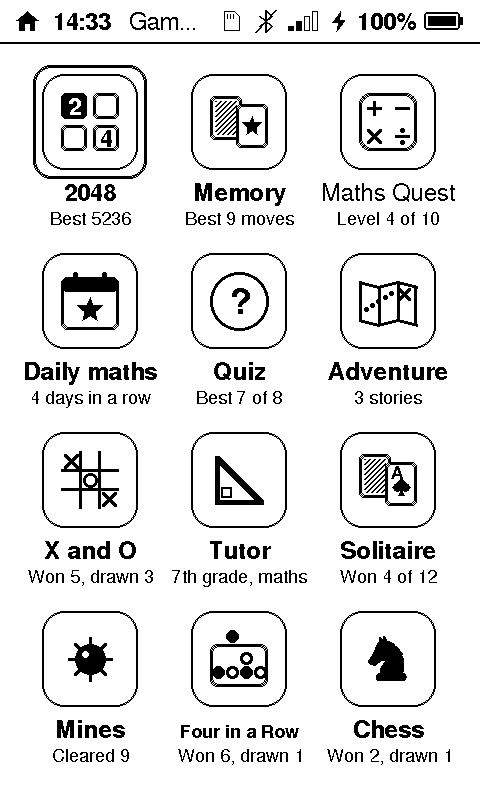
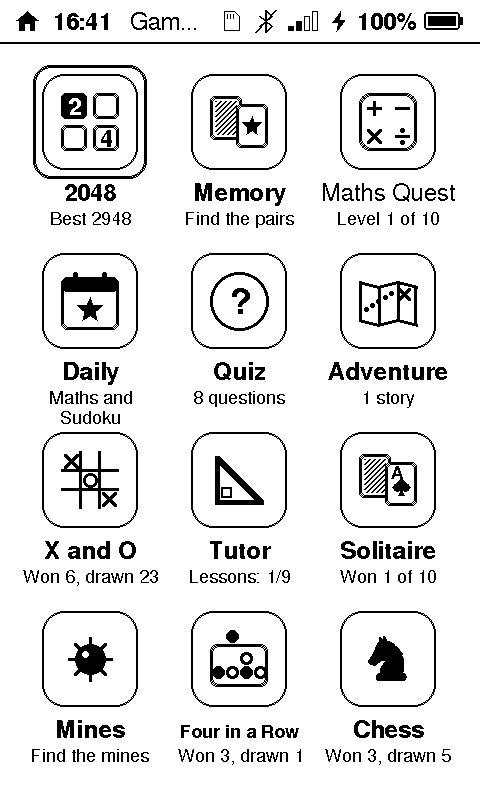
Site 1.9 (hold until 1.9 is tagged): Sudoku under Daily, with the board's captures
The help page's Daily section: Sudoku from the firmware (levels by the
numbers given, Pencil, Erase, Undo, clashes struck through, the clock,
best times, the streak, today's puzzle kept through restarts and sleep,
the same on every board running the same version), with its 11-step
demo; Daily maths placeholder is the Daily screen. The 1.9 post with the
Daily screen, a game with pencil marks and a clash, the solved screen and
sideways. The launcher capture now shows the Daily tile (the 1.8 post
keeps its own as games-twelve-v18.png); home page lines say Daily (Daily
maths and Sudoku).

diff --git a/site/src/games/index.html b/site/src/games/index.html
@@ -4,7 +4,7 @@
 <meta charset="utf-8">
 <meta name="viewport" content="width=device-width, initial-scale=1">
 <title>How to play the games on {{NAME}}</title>
-<meta name="description" content="How to play the twelve games of {{NAME}} on the reTerminal Sticky e-paper board: 2048, Memory, Maths Quest, Daily (Sudoku and Daily maths), Quiz, Adventure, X and O, Tutor, Solitaire, Mines, Four in a Row and Chess, step by step on the board's own screens.">
+<meta name="description" content="How to play the twelve games of {{NAME}} on the reTerminal Sticky e-paper board: 2048, Memory, Maths Quest, Daily (Daily maths and Sudoku), Quiz, Adventure, X and O, Tutor, Solitaire, Mines, Four in a Row and Chess, step by step on the board's own screens.">
 <meta name="color-scheme" content="light dark">
 <meta name="theme-color" content="#ecede8" media="(prefers-color-scheme: light)">
 <meta name="theme-color" content="#1d1e20" media="(prefers-color-scheme: dark)">
@@ -231,13 +231,13 @@
   </div>
 </section>
 
-<!-- 1.9: the Daily tile opens a Daily screen with Daily maths and Sudoku (issue #18). Before 1.9
-     this section was Daily maths alone (id="daily-maths"); that anchor still works below. Sudoku's
-     rules are kept to what is certain until the firmware's guide.md row lands. -->
+<!-- 1.9 (hold until 1.9 is tagged): the Daily tile opens a Daily screen with Daily maths and
+     Sudoku (issue #18). Before 1.9 this section was Daily maths alone (id="daily-maths"); that
+     anchor still works below. Sudoku's facts: docs/guide.md and games_sudoku.ino on games/sudoku. -->
 <section class="game" id="daily" aria-labelledby="g-daily">
   <div class="wrap">
     <h2 id="g-daily"><span class="icon"><svg viewBox="0 0 24 24" aria-hidden="true"><rect x="3.5" y="5" width="17" height="15.5" rx="2"/><path d="M3.5 10h17M8 3v4M16 3v4M12 12.5v5.5M9.25 15.25h5.5"/></svg></span>Daily <span class="tag">Sudoku new in 1.9</span></h2>
-    <p class="goal">The <strong>Daily</strong> tile opens today’s puzzles: a new daily puzzle, <a href="#sudoku">Sudoku</a>, next to <a href="#daily-maths">Daily maths</a>. Each is made on the board from the date, so it needs no internet, and every board has the same one that day.</p>
+    <p class="goal">The <strong>Daily</strong> tile opens the puzzles of the day: a new daily puzzle, <a href="#sudoku">Sudoku</a>, next to <a href="#daily-maths">Daily maths</a>. Both come from the date, so every board running the same version of {{NAME}} has the same ones that day, and each has its own streak of days in a row.</p>
   </div>
   <div class="wrap game-grid game-part" id="sudoku">
     <div class="game-copy">
@@ -245,18 +245,22 @@
       <p class="goal"><strong>Goal:</strong> fill the grid so that every row, every column and every 3 × 3 box holds the numbers 1 to 9 once each.</p>
       <h4>How to play</h4>
       <ol>
-        <li>Tap <em>Daily</em>, then <em>Sudoku</em>, and pick a level: <em>Easy</em>, <em>Medium</em> or <em>Hard</em>.</li>
-        <li>Tap a cell, then a number to put it there.</li>
-        <li>Pencil marks note the numbers a cell could still be.</li>
-        <li>A number that clashes with another in its row, column or box is marked.</li>
+        <li>Tap <em>Daily</em>, then <em>Sudoku</em>: <em>Today’s sudoku</em>. Pick a level: <em>Easy</em> (36 to 40 numbers given), <em>Medium</em> (30 to 34) or <em>Hard</em> (26 to 29).</li>
+        <li>Tap a square: it is ringed, and its row, column and box are lightly hatched.</li>
+        <li>Tap a number to put it in; the same number again takes it out. Given numbers are bold and can’t change.</li>
+        <li><em>Pencil</em> puts numbers in small, as notes. <em>Erase</em> clears a square, and <em>Undo</em> takes back a step.</li>
+        <li>A number of yours that clashes with another in its row, column or box is struck through, never refused.</li>
+        <li>Fill the last square: <em>Solved!</em>, with your time, a new best, your streak and <em>Come back tomorrow for a new one.</em></li>
       </ol>
       <h4>Tips</h4>
       <ul>
-        <li>There is a new puzzle every day, the same on every board: one to compare over breakfast.</li>
-        <li>Start with the rows, columns and boxes that are nearly full.</li>
+        <li>Every puzzle has exactly one solution. On Easy, a square with only one number left, or a number with only one place left in its row, column or box, always gets you to the end.</li>
+        <li>A number you place takes its pencil notes off its row, column and box. Once a number is placed nine times it fades on the pad.</li>
+        <li>The clock counts while the puzzle is on screen; a long gap between taps counts as ten minutes at most. <em>Levels</em> goes back to the levels card, which shows each level’s time and best, with a tick on those solved today.</li>
+        <li>The puzzle is made on the board from the date: no internet needed once the board knows the date, and every board running the same version of {{NAME}} has the same one that day. Without the date, the screen asks you to connect to WiFi.</li>
       </ul>
       <h4>What’s kept</h4>
-      <p class="kept">Your streak of days and your best times.</p>
+      <p class="kept">Your best time at each level, and your streak: days in a row with a sudoku solved, at any level. Today’s grids, notes and times are kept even when the board restarts or sleeps; a new day starts afresh.</p>
       <!-- short:sudoku -->
     </div>
 <!-- demo:sudoku -->
@@ -265,9 +269,9 @@
     <li class="demo-step">
       <figure>
         <div class="device portrait"><div class="screen">
-          <div class="slot"><strong>Sudoku</strong>The board’s screens are coming</div>
+          <img src="../shots/sudoku-play.png" width="480" height="800" loading="lazy" decoding="async" alt="Today's Easy sudoku at 1:02: the square in row 2, column 1 ringed and its 8 struck through, since the row already has an 8; pencil marks 2 and 3 in a square of the top row; the number pad, Erase, Pencil and Undo">
         </div></div>
-        <figcaption>Sudoku, step by step: coming with its captures</figcaption>
+        <figcaption>A clash struck through, and pencil marks</figcaption>
       </figure>
     </li>
   </ol>
@@ -280,9 +284,9 @@
       <p class="goal"><strong>Goal:</strong> answer today’s five questions, and keep a streak of days in a row.</p>
       <h4>How to play</h4>
       <ol>
-        <li>Open Daily maths: <em>Today’s five questions</em>, the same all day, since they come from the date.</li>
+        <li>Tap <em>Daily</em>, then <em>Daily maths</em>: <em>Today’s five questions</em>, the same all day, since they come from the date.</li>
         <li>Tap one of the four answers. They are mixed, at the Champion level, with three hearts as in Maths Quest.</li>
-        <li>Answer all five: <em>Daily done!</em>, and your streak grows by a day.</li>
+        <li>Answer all five: <em>Daily done!</em>, and your streak grows by a day. <em>Back</em> returns to the Daily screen.</li>
       </ol>
       <h4>Tips</h4>
       <ul>
@@ -301,9 +305,9 @@
     <li class="demo-step">
       <figure>
         <div class="device portrait"><div class="screen">
-          <img src="../shots/games-twelve.png" width="480" height="800" loading="lazy" decoding="async" alt="The Games folder: icons for 2048, Memory, Maths Quest, Daily (Sudoku and Daily maths), Quiz, Adventure, X and O, Tutor, Solitaire, Mines, Four in a Row and Chess, each with a line of progress">
+          <img src="../shots/sudoku-daily.png" width="480" height="800" loading="lazy" decoding="async" alt="The Daily screen, Sunday, 22 November 2026: a row for Daily maths, 5 a day, and a row for Sudoku, Easy, Medium or Hard; at the foot: New puzzles every day, the same on every board">
         </div></div>
-        <figcaption>The Games folder, before 1.9: Daily maths, with your streak under it</figcaption>
+        <figcaption>The Daily screen: Daily maths and Sudoku</figcaption>
       </figure>
     </li>
   </ol>
@@ -649,6 +653,7 @@
         <p><a href="https://youtube.com/shorts/H9hcRsAU_AQ" target="_blank" rel="noopener noreferrer">Watch it on YouTube</a></p>
         <p class="short-note">It opens on YouTube; nothing from YouTube loads on this page.</p>
       </div>
+    </div>
     <p>The rules of Solitaire, Mines, Four in a Row and Chess come from <a href="https://github.com/ma-r-s/crossplay" target="_blank" rel="noopener noreferrer">CrossPlay</a> by Mario Ruiz (MIT); the chess pieces are Maurizio Monge’s “celtic” set (MIT). The games come with {{NAME}}, free; <a href="../#install">install it</a> on your board. Read what came in <a href="../blog/sticky-os-1-8-solitaire-mines-four-in-a-row-chess/">1.8: Solitaire, Mines, Four in a Row and Chess</a> and <a href="../blog/reterminal-sticky-games-2048-memory-maths-quiz/">the first eight games</a>, or the <a href="https://github.com/Sticky-OS/sticky-os/blob/main/docs/guide.md#games" target="_blank" rel="noopener noreferrer">user guide</a>.</p>
     <p class="post-end"><a class="button" href="../#install">Install {{NAME}}</a> <a href="../#tour">Take the tour</a></p>
   </div>

diff --git a/site/src/blog/sticky-os-1-9-daily-sudoku-fridge-door/index.html b/site/src/blog/sticky-os-1-9-daily-sudoku-fridge-door/index.html
@@ -4,7 +4,7 @@
 <meta charset="utf-8">
 <meta name="viewport" content="width=device-width, initial-scale=1">
 <title>{{NAME}} 1.9: a daily Sudoku for the fridge door</title>
-<meta name="description" content="{{NAME}} 1.9 adds a daily Sudoku to the reTerminal Sticky, under Daily next to Daily maths: a new puzzle every day, made on the board from the date, the same on every board, at three levels.">
+<meta name="description" content="{{NAME}} 1.9 adds a daily Sudoku to the reTerminal Sticky, under Daily next to Daily maths: a new puzzle every day, made on the board from the date, the same on every board running the same version, at three levels.">
 <meta name="color-scheme" content="light dark">
 <meta name="theme-color" content="#ecede8" media="(prefers-color-scheme: light)">
 <meta name="theme-color" content="#1d1e20" media="(prefers-color-scheme: dark)">
@@ -37,7 +37,7 @@
   {
    "@type": "BlogPosting",
    "headline": "Sticky OS 1.9: a daily Sudoku for the fridge door",
-   "description": "Sticky OS 1.9 adds a daily Sudoku to the reTerminal Sticky, under Daily next to Daily maths: a new puzzle every day, made on the board from the date, the same on every board, at three levels.",
+   "description": "Sticky OS 1.9 adds a daily Sudoku to the reTerminal Sticky, under Daily next to Daily maths: a new puzzle every day, made on the board from the date, the same on every board running the same version, at three levels.",
    "datePublished": "2026-11-22",
    "dateModified": "2026-11-22",
    "image": "https://sticky-os.space.fast/shots/social-games.jpg",
@@ -93,9 +93,9 @@
 </script>
 </head>
 <body>
-<!-- 1.9 DRAFT: goes live only once the 1.9 firmware release is tagged. Captures to come
-     (screenshots below are placeholders); facts kept to what is certain until the firmware's
-     guide.md row for Daily Sudoku lands. -->
+<!-- 1.9 DRAFT (hold until 1.9 is tagged): goes live only once the 1.9 firmware release is
+     tagged. Facts from docs/guide.md and games_sudoku.ino on games/sudoku; pictures are the
+     board's captures (src/shots/sudoku-*.png). -->
 <a class="skip" href="#main">Skip to content</a>
 
 {{HEADER}}
@@ -109,13 +109,18 @@
   </header>
 
   <div class="post-body wrap narrow">
-    <!-- placeholder: the Games folder until the Sudoku captures come -->
     <div class="shots two-portrait">
       <figure class="device portrait">
         <div class="screen">
-          <a href="../../shots/games-twelve.png"><img src="../../shots/games-twelve.png" width="480" height="800" alt="The Games folder: icons for 2048, Memory, Maths Quest, Daily maths, Quiz, Adventure, X and O, Tutor, Solitaire, Mines, Four in a Row and Chess, each with a line of progress"></a>
+          <a href="../../shots/sudoku-daily.png"><img src="../../shots/sudoku-daily.png" width="480" height="800" alt="The Daily screen, Sunday, 22 November 2026: a row for Daily maths, 5 a day, and a row for Sudoku, Easy, Medium or Hard; at the foot: New puzzles every day, the same on every board"></a>
         </div>
-        <figcaption>The Games folder. Tap a screenshot to see it whole.</figcaption>
+        <figcaption>Daily: Daily maths and Sudoku</figcaption>
+      </figure>
+      <figure class="device portrait">
+        <div class="screen">
+          <a href="../../shots/sudoku-play.png"><img src="../../shots/sudoku-play.png" width="480" height="800" alt="Today's Easy sudoku at 1:02: the square in row 2, column 1 ringed and its 8 struck through, since the row already has an 8; pencil marks 2 and 3 in a square of the top row; the number pad, Erase, Pencil and Undo"></a>
+        </div>
+        <figcaption>A clash struck through, and pencil marks. Tap a screenshot to see it whole.</figcaption>
       </figure>
     </div>
 
@@ -125,13 +130,31 @@
          that nothing from YouTube loads on this page). -->
 
     <h2>A puzzle a day</h2>
-    <p>The Games folder’s <em>Daily</em> tile now opens today’s puzzles: Daily maths, as before, and Sudoku. Each day brings a new Sudoku, at three levels: Easy, Medium and Hard. The board makes it from the date, so it needs no internet and no account, and every board running {{NAME}} has the same puzzle that day: one to compare over breakfast. The board keeps a streak of days and your best times.</p>
+    <p>The <em>Daily</em> tile in the Games folder now opens the puzzles of the day: Daily maths, as before, and Sudoku. Each day brings a new Sudoku at three levels: Easy, with 36 to 40 numbers given, Medium with 30 to 34, and Hard with 26 to 29. Every puzzle has exactly one solution.</p>
+    <p>The board makes the puzzle itself, from the date. It needs no server and no account, only the date, and every board running the same version of {{NAME}} has the same puzzle that day: one to compare over breakfast. Each puzzle keeps its own streak of days in a row.</p>
 
     <h2>Why e-paper suits it</h2>
-    <p>Sudoku is a game of looking, not of speed: a grid that sits still, a number now and then. That is what e-paper does well. The puzzle stays on the screen all day without using power, sharp as print, and is there to pick up again each time you pass the fridge.</p>
+    <p>Sudoku is a game of looking, not of speed: a grid that sits still, a number now and then. That is what e-paper does well. The puzzle stays on the screen, sharp as print, and is there to pick up again each time you pass the fridge. Today’s grid, your notes and your time are kept even when the board restarts or sleeps on battery; a new day starts afresh.</p>
 
     <h2>How to play</h2>
-    <p>Fill the grid so that every row, every column and every 3 × 3 box holds the numbers 1 to 9 once each. Tap <em>Daily</em>, then <em>Sudoku</em>, and pick a level. Tap a cell, then a number. Pencil marks note the numbers a cell could still be, and a number that clashes with another in its row, column or box is marked. <a href="../../games/#sudoku">How to play the games</a> has every step, with the board’s own screens.</p>
+    <p>Fill the grid so that every row, every column and every 3 × 3 box holds the numbers 1 to 9 once each. Tap <em>Daily</em>, then <em>Sudoku</em>, and pick a level. Tap a square, then a number; the given numbers are bold and can’t change. <em>Pencil</em> puts numbers in small, as notes, <em>Erase</em> clears a square and <em>Undo</em> takes back a step. A number that clashes with another in its row, column or box is struck through, never refused.</p>
+    <p>The clock counts while the puzzle is on screen. Fill the last square and the board shows your time, a new best if it is one, your streak (days in a row with a sudoku solved, at any level) and <em>Come back tomorrow for a new one.</em> <a href="../../games/#sudoku">How to play the games</a> has every step, on the board’s own screens.</p>
+    <div class="shots two-portrait">
+      <figure class="device portrait">
+        <div class="screen">
+          <a href="../../shots/sudoku-solved.png"><img src="../../shots/sudoku-solved.png" width="480" height="800" loading="lazy" alt="The solved grid, and under it: Solved!, Solved in 2:28, A new best time!, 1 day in a row, Come back tomorrow for a new one"></a>
+        </div>
+        <figcaption>Solved: the time, a best and the streak</figcaption>
+      </figure>
+    </div>
+    <div class="shots single">
+      <figure class="device">
+        <div class="screen">
+          <a href="../../shots/sudoku-landscape.png"><img src="../../shots/sudoku-landscape.png" width="800" height="480" loading="lazy" alt="Sudoku held sideways: the solved grid on the left; on the right Back, Levels, Easy 2:28, Solved!, Solved in 2:28, A new best time!, 1 day in a row, Come back tomorrow for a new one"></a>
+        </div>
+        <figcaption>Held sideways: the grid on the left, the numbers or the result beside it</figcaption>
+      </figure>
+    </div>
 
     <h2>Get it</h2>
     <p>{{NAME}} 1.9 is on <a href="https://github.com/Sticky-OS/sticky-os/releases/latest" target="_blank" rel="noopener noreferrer">GitHub Releases</a>. On a board running {{NAME}}, open Settings → Software update, tap Check now, then Install. To install it the first time, see <a href="../../#install">Install</a>. Sudoku is under <em>Daily</em> in the Games folder.</p>

diff --git a/site/src/index.html b/site/src/index.html
@@ -467,7 +467,7 @@
           <li><strong>2048</strong>: swipe to slide and merge the tiles.</li>
           <li><strong>Memory</strong>: find the pairs in as few moves as you can.</li>
           <li><strong>Maths Quest</strong>: ten levels, from sums to fractions, with stars and hints, never the answer.</li>
-          <li><strong>Daily</strong>: Daily maths, five questions a day and a streak, and <span class="tag">1.9</span> a new daily puzzle, Sudoku, the same on every board.</li>
+          <li><strong>Daily</strong> (Daily maths and Sudoku): five maths questions a day, and <span class="tag">1.9</span> a new Sudoku every day at three levels, the same on every board.</li>
           <li><strong>Quiz</strong>: eight questions on a theme, or one you type.</li>
           <li><strong>Adventure</strong>: a story where you choose what happens next.</li>
           <li><strong>X and O</strong>: against the board, from Easy to unbeatable.</li>
@@ -483,7 +483,7 @@
       <div class="shots two-portrait">
         <figure class="device portrait">
           <div class="screen">
-            <img src="shots/games-twelve.png" width="480" height="800" loading="lazy" alt="The Games folder: icons for 2048, Memory, Maths Quest, Daily maths, Quiz, Adventure, X and O, Tutor, Solitaire, Mines, Four in a Row and Chess, each with a line of progress">
+            <img src="shots/games-twelve.png" width="480" height="800" loading="lazy" alt="The Games folder, twelve tiles three across: 2048, Memory, Maths Quest, Daily (a calendar page with a star, Maths and Sudoku under it), Quiz, Adventure, X and O, Tutor, Solitaire, Mines, Four in a Row and Chess, each with a line of progress">
           </div>
           <figcaption>Each game shows how you’re doing</figcaption>
         </figure>
@@ -671,7 +671,7 @@
       <li><span class="icon"><svg viewBox="0 0 24 24" aria-hidden="true"><path d="M7 14.5a4 4 0 0 1-.6-7.9 5 5 0 0 1 9.2-1 4 4 0 0 1 2.4 7.6"/><path d="M7 12.5v7h10v-7M7 16.5h10"/></svg></span>
         <h3>Recipes <span class="tag">New</span></h3><p>Say or type a dish and get a recipe with ingredients to tick. Needs your own OpenAI key. <a href="blog/ai-recipes-voice-ask-fridge-door-dinner/">More about Recipes</a>.</p></li>
       <li><span class="icon"><svg viewBox="0 0 24 24" aria-hidden="true"><rect x="3.5" y="3.5" width="7" height="7" rx="1.5"/><rect x="13.5" y="3.5" width="7" height="7" rx="1.5"/><rect x="3.5" y="13.5" width="7" height="7" rx="1.5"/><path d="M17 14v6M14 17h6"/></svg></span>
-        <h3>Games <span class="tag">New</span></h3><p>A folder of twelve: 2048, Memory, Maths Quest, Daily (maths and <a href="blog/sticky-os-1-9-daily-sudoku-fridge-door/">a Sudoku</a>), Quiz, Adventure, X and O, <a href="blog/sticky-os-1-6-tutor-speaks-english/">Tutor</a> (geometry lessons in Romanian and English), <a href="blog/sticky-os-1-8-solitaire-mines-four-in-a-row-chess/">Solitaire, Mines, Four in a Row and Chess</a>.</p></li>
+        <h3>Games <span class="tag">New</span></h3><p>A folder of twelve: 2048, Memory, Maths Quest, Daily (Daily maths and <a href="blog/sticky-os-1-9-daily-sudoku-fridge-door/">Sudoku</a>), Quiz, Adventure, X and O, <a href="blog/sticky-os-1-6-tutor-speaks-english/">Tutor</a> (geometry lessons in Romanian and English), <a href="blog/sticky-os-1-8-solitaire-mines-four-in-a-row-chess/">Solitaire, Mines, Four in a Row and Chess</a>.</p></li>
       <li><span class="icon"><svg viewBox="0 0 24 24" aria-hidden="true"><path d="M3.5 17a8.5 8.5 0 0 1 17 0"/><path d="M12 17l4.5-5.5"/><circle cx="12" cy="17" r="1.3"/></svg></span>
         <h3>Claude Code usage</h3><p>This week’s usage as a gauge, read from an MQTT feed you publish.</p></li>
       <li><span class="icon"><svg viewBox="0 0 24 24" aria-hidden="true"><path d="M4 7h16M4 17h16"/><circle cx="9" cy="7" r="2.3"/><circle cx="15" cy="17" r="2.3"/></svg></span>

diff --git a/site/src/blog/index.html b/site/src/blog/index.html
@@ -141,11 +141,11 @@
       <li>
         <article>
           <a class="post-card" href="sticky-os-1-9-daily-sudoku-fridge-door/">
-            <span class="device thumb portrait"><span class="screen"><img src="../shots/games-twelve.png" width="480" height="800" alt=""></span></span>
+            <span class="device thumb portrait"><span class="screen"><img src="../shots/sudoku-play.png" width="480" height="800" alt=""></span></span>
             <span class="post-card-text">
               <time datetime="2026-11-22">22 November 2026</time>
               <h2 class="post-card-title">{{NAME}} 1.9: a daily Sudoku for the fridge door</h2>
-              <span>A new daily puzzle, Sudoku, under Daily next to Daily maths: made on the board from the date with no internet, the same on every board, at three levels, with pencil marks, a streak and best times.</span>
+              <span>A new daily puzzle, Sudoku, under Daily next to Daily maths: made on the board from the date with no internet, the same on every board running the same version, at three levels, with pencil marks, a streak and best times.</span>
             </span>
           </a>
         </article>

diff --git a/site/src/blog/sticky-os-1-8-solitaire-mines-four-in-a-row-chess/index.html b/site/src/blog/sticky-os-1-8-solitaire-mines-four-in-a-row-chess/index.html
@@ -109,7 +109,7 @@
     <div class="shots two-portrait">
       <figure class="device portrait">
         <div class="screen">
-          <a href="../../shots/games-twelve.png"><img src="../../shots/games-twelve.png" width="480" height="800" alt="The Games folder with twelve games: 2048, Memory, Maths Quest, Daily maths, Quiz, Adventure, X and O, Tutor, Solitaire, Mines, Four in a Row and Chess"></a>
+          <a href="../../shots/games-twelve-v18.png"><img src="../../shots/games-twelve-v18.png" width="480" height="800" alt="The Games folder with twelve games: 2048, Memory, Maths Quest, Daily maths, Quiz, Adventure, X and O, Tutor, Solitaire, Mines, Four in a Row and Chess"></a>
         </div>
         <figcaption>The Games folder, twelve games</figcaption>
       </figure>
